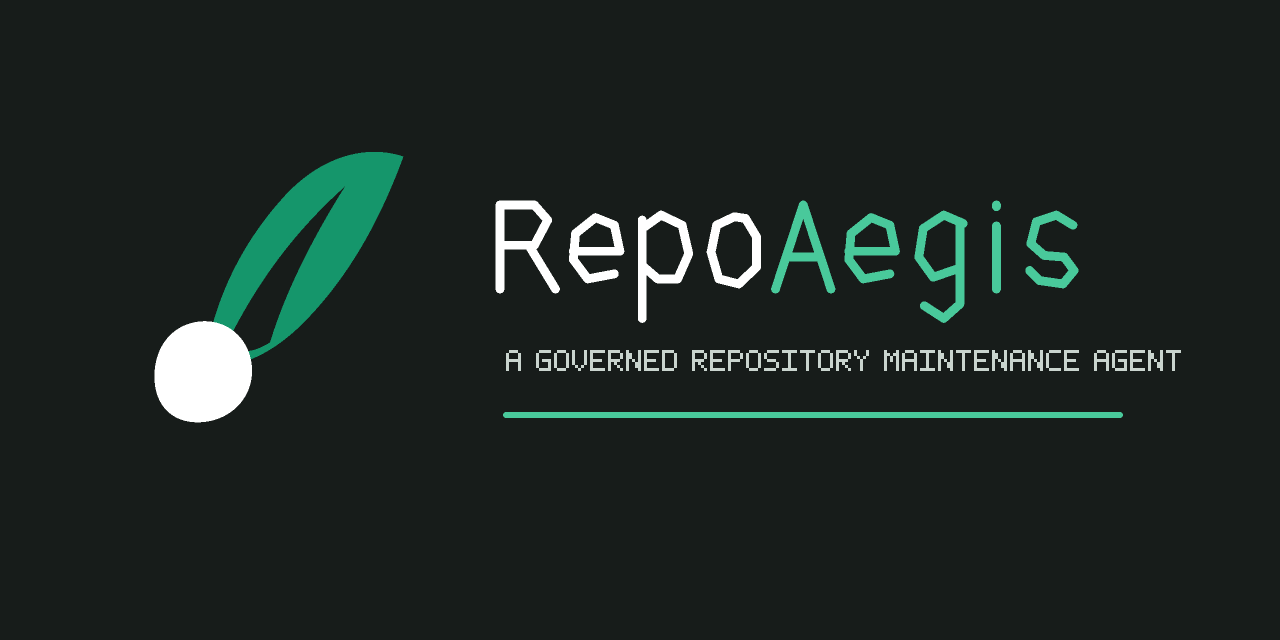
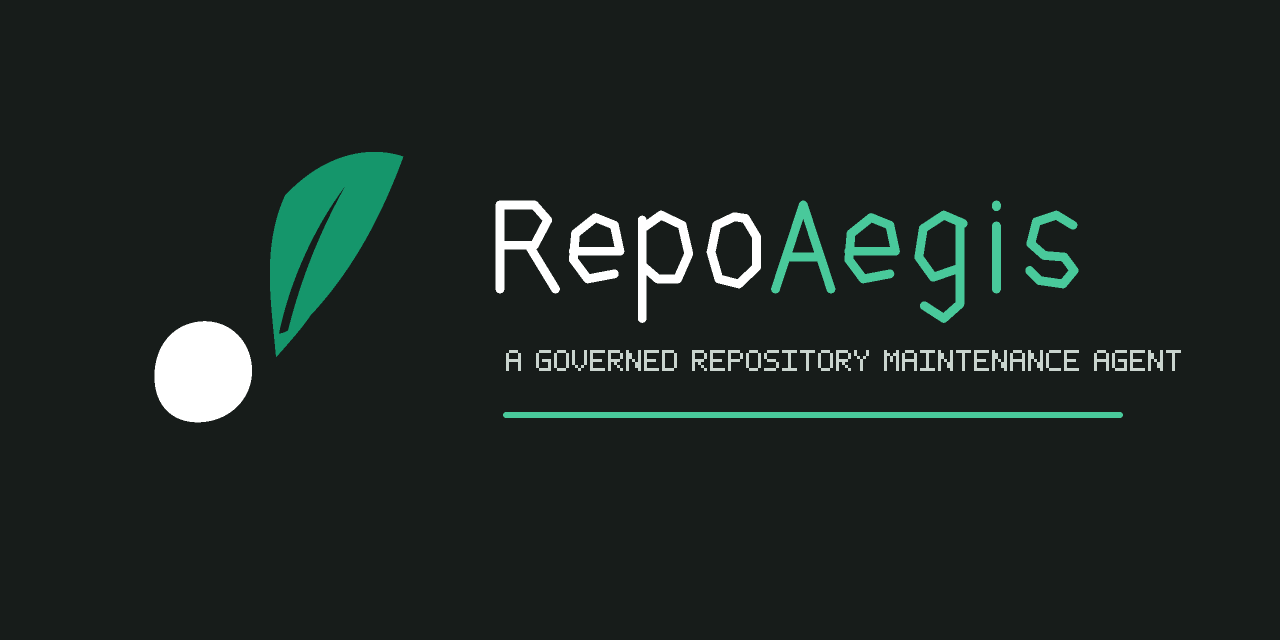
brand: separate mark seed geometry

Changed region(s): [[0.1562, 0.3125, 0.25, 0.5312], [0.25, 0.3125, 0.2812, 0.3438], [0.1875, 0.5312, 0.2188, 0.5625]]

diff --git a/tests/unit/brand/test_logo_assets.py b/tests/unit/brand/test_logo_assets.py
@@ -1,5 +1,6 @@
 import shutil
 import xml.etree.ElementTree as ET
+from collections import deque
 from pathlib import Path
 
 from scripts.build_brand_assets import CARBON, build, render_mark, render_social_preview
@@ -58,7 +59,27 @@ def test_dark_social_preview_keeps_repo_prefix_and_seed_visible() -> None:
     assert has_non_background_pixel(145, 315, 270, 445)
 
 
-def test_seed_is_closed_and_has_no_connector_protrusion() -> None:
+def _opaque_component_count(*, pixels: bytearray, width: int, height: int) -> int:
+    opaque = {
+        (x, y)
+        for y in range(height)
+        for x in range(width)
+        if pixels[(y * width + x) * 4 + 3] > 0
+    }
+    components = 0
+    while opaque:
+        components += 1
+        queue = deque([opaque.pop()])
+        while queue:
+            x, y = queue.popleft()
+            for neighbor in ((x - 1, y), (x + 1, y), (x, y - 1), (x, y + 1)):
+                if neighbor in opaque:
+                    opaque.remove(neighbor)
+                    queue.append(neighbor)
+    return components
+
+
+def test_seed_is_closed_and_visually_separated_from_wing() -> None:
     root = ET.parse(  # noqa: S314 - parses a committed local SVG fixture
         ROOT / "docs" / "repo-aegis-mark.svg"
     ).getroot()
@@ -66,6 +87,13 @@ def test_seed_is_closed_and_has_no_connector_protrusion() -> None:
     assert paths
     assert all(path.attrib["d"].rstrip().endswith("Z") for path in paths)
 
-    mark = render_mark(240, small=False)
-    offset = (142 * mark.width + 75) * 4
-    assert mark.pixels[offset + 3] == 0
+    for size in (16, 32, 64, 240, 256):
+        mark = render_mark(size, small=size < 32)
+        assert (
+            _opaque_component_count(
+                pixels=mark.pixels,
+                width=mark.width,
+                height=mark.height,
+            )
+            == 2
+        )

diff --git a/scripts/build_brand_assets.py b/scripts/build_brand_assets.py
@@ -51,20 +51,20 @@ def curved_polygon(start: Point, curves: list[tuple[Point, Point, Point]]) -> li
 
 
 WING = curved_polygon(
-    (72, 174),
+    (120, 169),
     [
-        ((77, 139), (92, 98), (126, 61)),
+        ((117, 134), (110, 96), (126, 61)),
         ((151, 34), (181, 27), (205, 35)),
         ((191, 73), (172, 110), (143, 141)),
-        ((120, 166), (95, 178), (72, 174)),
+        ((137, 150), (127, 161), (120, 169)),
     ],
 )
 WING_OPENING = curved_polygon(
-    (87, 160),
+    (122, 153),
     [
-        ((105, 124), (128, 89), (166, 55)),
-        ((142, 93), (125, 129), (116, 159)),
-        ((106, 165), (96, 168), (87, 160)),
+        ((129, 119), (145, 83), (166, 55)),
+        ((146, 91), (135, 123), (128, 151)),
+        ((126, 152), (124, 153), (122, 153)),
     ],
 )
 SEED = curved_polygon(
@@ -77,12 +77,12 @@ SEED = curved_polygon(
     ],
 )
 SMALL_WING = curved_polygon(
-    (74, 171),
+    (130, 169),
     [
-        ((80, 136), (96, 96), (129, 61)),
-        ((151, 38), (179, 29), (203, 36)),
+        ((127, 134), (119, 96), (133, 61)),
+        ((153, 38), (181, 29), (205, 36)),
         ((189, 76), (170, 111), (142, 141)),
-        ((119, 164), (96, 175), (74, 171)),
+        ((140, 151), (135, 162), (130, 169)),
     ],
 )
 SMALL_SEED = curved_polygon(
